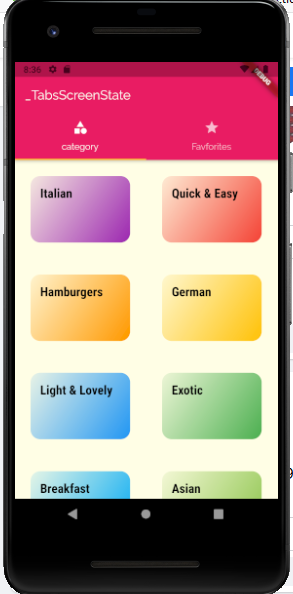
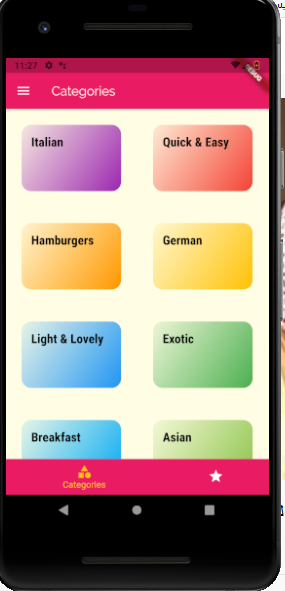
181. Adding a Mark as Favorite

diff --git a/lib/main.dart b/lib/main.dart
@@ -22,7 +22,27 @@ class _MyAppState extends State<MyApp> {
     'vegan': false,
     'vegeterian': false,
   };
+
   List<Meal> _availableMeals = DUMMY_MEALS;
+  List<Meal> _favoriteMeals = [];
+
+  void _toggleFavorite(String mealId) {
+    final existIndex = _favoriteMeals.indexWhere((meal) => meal.id == mealId);
+
+    if (existIndex >= 0) {
+      setState(() {
+        _favoriteMeals.removeAt(existIndex);
+      });
+    } else {
+      setState(() {
+        _favoriteMeals.add(DUMMY_MEALS.firstWhere((meal) => meal.id == mealId));
+      });
+    }
+  }
+
+  bool _isMealFavorite(String mealId) {
+    return _favoriteMeals.any((element) => element.id == mealId);
+  }
 
   void setFilters(Map<String, bool> filterData) {
     setState(() {
@@ -63,11 +83,12 @@ class _MyAppState extends State<MyApp> {
       //home: CategoriesScreen(),
       initialRoute: '/',
       routes: {
-        '/': (ctx) => TabsScreen(),
+        '/': (ctx) => TabsScreen(_favoriteMeals),
         Filters.routeName: (ctx) => Filters(_filters, setFilters),
         CategoryMealsScreen.routeName: (ctx) =>
             CategoryMealsScreen(_availableMeals),
-        MealDetailsScreen.routeName: (ctx) => MealDetailsScreen()
+        MealDetailsScreen.routeName: (ctx) =>
+            MealDetailsScreen(_isMealFavorite, _toggleFavorite)
       },
       /*onGenerateRoute: (setting) {
         //if (setting.name == )

diff --git a/lib/screens/favorites_screen.dart b/lib/screens/favorites_screen.dart
@@ -1,10 +1,33 @@
 import 'package:flutter/material.dart';
+import 'package:meals/models/meal.dart';
+import 'package:meals/widget/meal_item.dart';
 
 class FavoritesScreen extends StatelessWidget {
+  final List<Meal> favoriteMeals;
+
+  FavoritesScreen(this.favoriteMeals);
+
   @override
   Widget build(BuildContext context) {
-    return Container(
-      child: Text('favorites Meal'),
-    );
+    if (favoriteMeals.isEmpty)
+      return Center(
+        child: Container(
+          child: Text('NO favorites Meal'),
+        ),
+      );
+    else
+      return ListView.builder(
+        itemBuilder: (ctx, index) {
+          return MealItem(
+            id: favoriteMeals.elementAt(index).id,
+            title: favoriteMeals.elementAt(index).title,
+            imageUrl: favoriteMeals.elementAt(index).imageUrl,
+            duration: favoriteMeals.elementAt(index).duration,
+            affordability: favoriteMeals.elementAt(index).affordability,
+            complexity: favoriteMeals.elementAt(index).complexity,
+          );
+        },
+        itemCount: favoriteMeals.length,
+      );
   }
 }

diff --git a/lib/screens/tabs_screen.dart b/lib/screens/tabs_screen.dart
@@ -1,26 +1,34 @@
 import 'package:flutter/cupertino.dart';
 
 import 'package:flutter/material.dart';
+import 'package:meals/models/meal.dart';
 import 'package:meals/screens/categories_screen.dart';
 import 'package:meals/screens/favorites_screen.dart';
 import 'package:meals/widget/ma%C4%B1n_drawer.dart';
 
 class TabsScreen extends StatefulWidget {
+  final List<Meal> favoriteMeals;
+
+  TabsScreen(this.favoriteMeals);
   @override
   _TabsScreenState createState() => _TabsScreenState();
 }
 
 class _TabsScreenState extends State<TabsScreen> {
-  final List<Map<String, Object>> _pages = [
-    {
-      'page': CategoriesScreen(),
-      'title': 'Categories',
-    },
-    {
-      'page': FavoritesScreen(),
-      'title': 'Your Favorite',
-    },
-  ];
+  List<Map<String, Object>> _pages;
+  @override
+  initState() {
+    _pages = [
+      {
+        'page': CategoriesScreen(),
+        'title': 'Categories',
+      },
+      {
+        'page': FavoritesScreen(widget.favoriteMeals),
+        'title': 'Your Favorite',
+      },
+    ];
+  }
 
   int _selectedIndex = 0;
 

diff --git a/lib/widget/meal_item.dart b/lib/widget/meal_item.dart
@@ -9,16 +9,17 @@ class MealItem extends StatelessWidget {
   final int duration;
   final Complexity complexity;
   final Affordability affordability;
-  final Function removeItem;
+  // final Function removeItem;
 
-  MealItem(
-      {@required this.id,
-      @required this.title,
-      @required this.imageUrl,
-      @required this.duration,
-      @required this.affordability,
-      @required this.complexity,
-      @required this.removeItem});
+  MealItem({
+    @required this.id,
+    @required this.title,
+    @required this.imageUrl,
+    @required this.duration,
+    @required this.affordability,
+    @required this.complexity,
+    // @required this.removeItem
+  });
 
   String get affordabilityText {
     switch (affordability) {
@@ -59,7 +60,7 @@ class MealItem extends StatelessWidget {
         .pushNamed(MealDetailsScreen.routeName, arguments: this.id)
         .then((mealid) {
       if (mealid != null) {
-        removeItem(mealid);
+        // removeItem(mealid);
       }
     });
   }

diff --git a/lib/screens/meal_dtails_screen.dart b/lib/screens/meal_dtails_screen.dart
@@ -2,6 +2,10 @@ import 'package:flutter/material.dart';
 import 'package:meals/dummy_data.dart';
 
 class MealDetailsScreen extends StatelessWidget {
+  final toggleFavorite;
+  final isMealFavorite;
+  MealDetailsScreen(this.isMealFavorite, this.toggleFavorite);
+
   static const routeName = '/meal-details';
 
   Widget buildSectionTitle(BuildContext context, String text) {
@@ -83,9 +87,10 @@ class MealDetailsScreen extends StatelessWidget {
         ),
       ),
       floatingActionButton: FloatingActionButton(
-        child: Icon(Icons.delete),
+        child: Icon(isMealFavorite(mealId) ? Icons.star : Icons.star_border),
         onPressed: () {
-          Navigator.of(context).pop(mealId);
+          toggleFavorite(mealId);
+          // Navigator.of(context).pop(mealId);
         },
       ),
     );

diff --git a/lib/screens/Category_meals_screen.dart b/lib/screens/Category_meals_screen.dart
@@ -67,7 +67,7 @@ class _CategoryMealsScreenState extends State<CategoryMealsScreen> {
               duration: displayMeals.elementAt(index).duration,
               affordability: displayMeals.elementAt(index).affordability,
               complexity: displayMeals.elementAt(index).complexity,
-              removeItem: _removeMeal,
+              //    removeItem: _removeMeal,
             );
           },
           itemCount: displayMeals.length,
